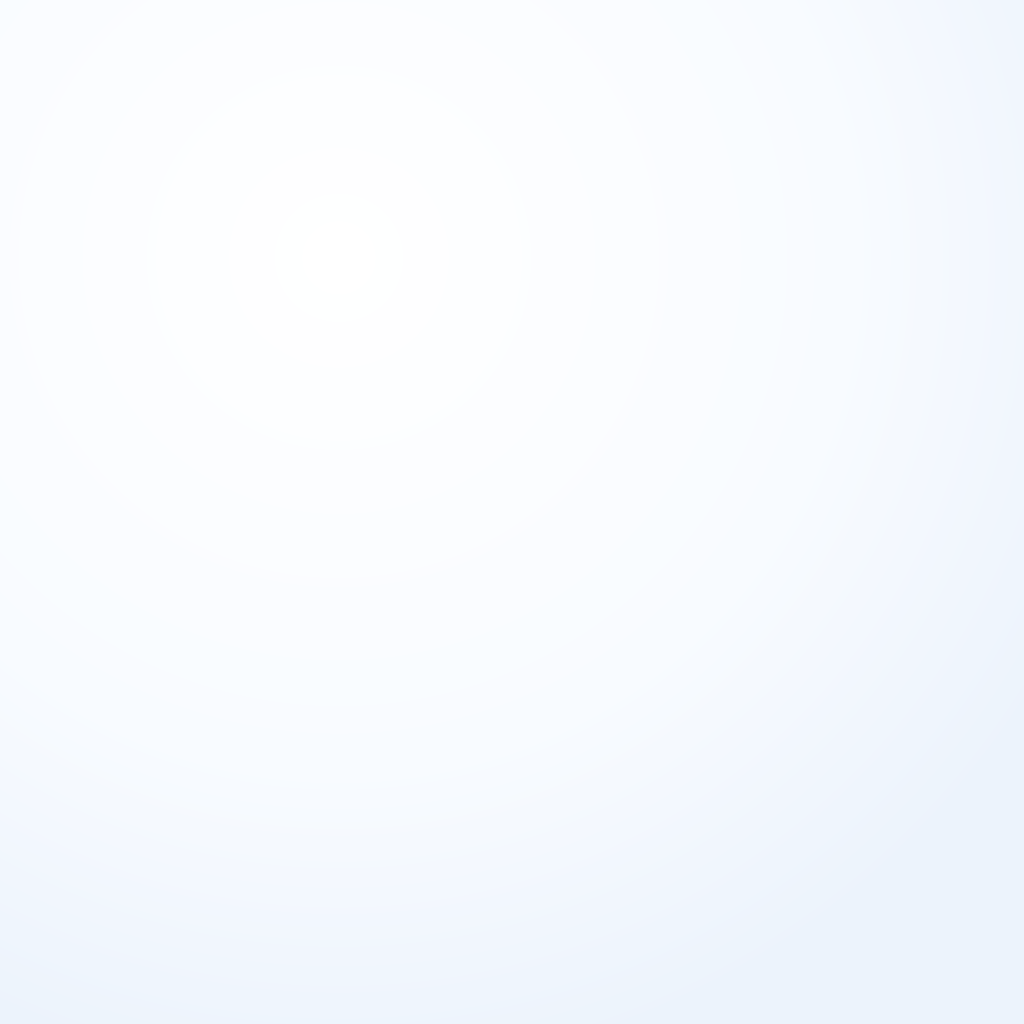
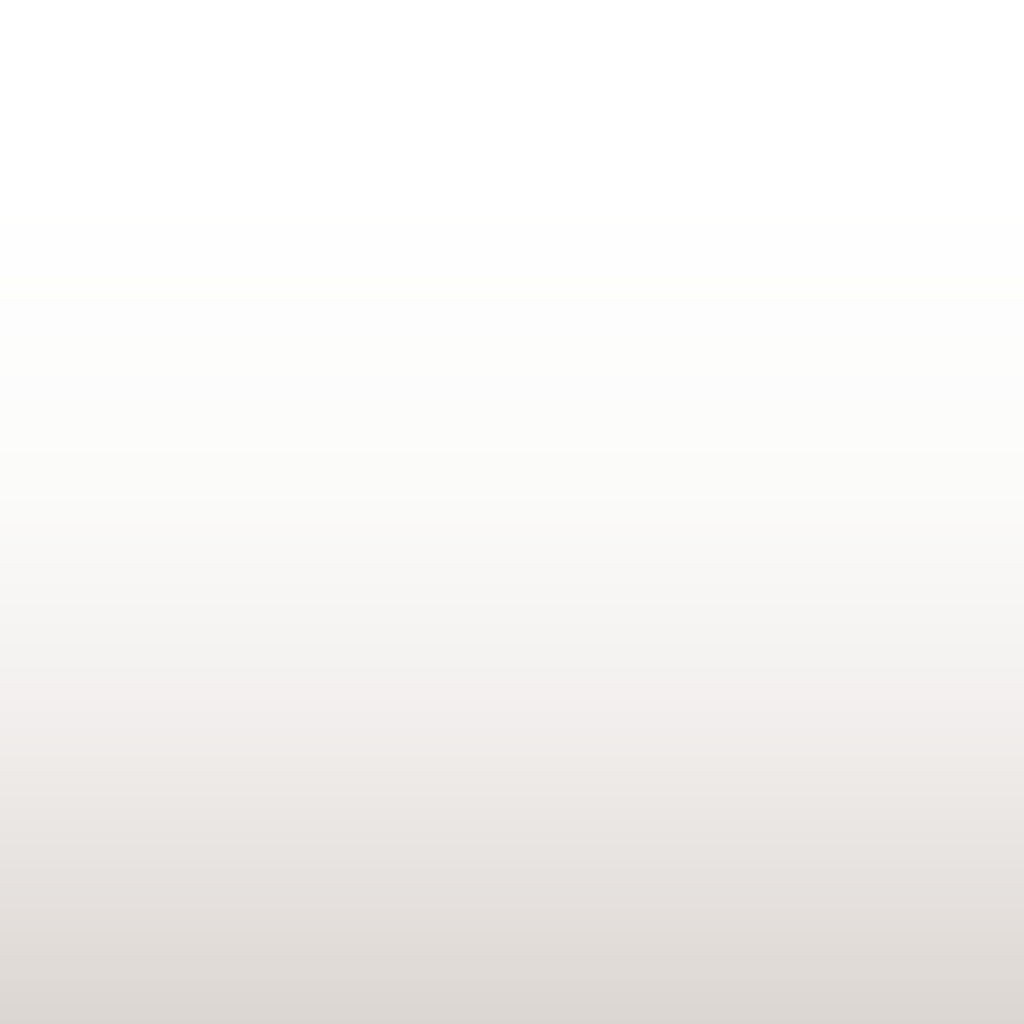
图标更新

Changed region(s): [[0.0, 0.75, 1.0, 1.0]]

diff --git a/tools/icon/README.md b/tools/icon/README.md
@@ -6,6 +6,9 @@ adding a second rounded canvas here would produce a visible double border.
 The foreground uses a simple blue optical disc rather than a letter, music note, or play glyph. A restrained material
 gradient, one subtle groove and a luminous object-edge rim keep it dimensional while remaining legible at small sizes.
 
+The white launcher background is kept as SVG source in `source/background.svg`. `source/browser-white-background.svg`
+keeps the same browser-style white paper gradient as a named reference copy.
+
 Regenerate all launcher resources from the SVG source:
 
 ```powershell